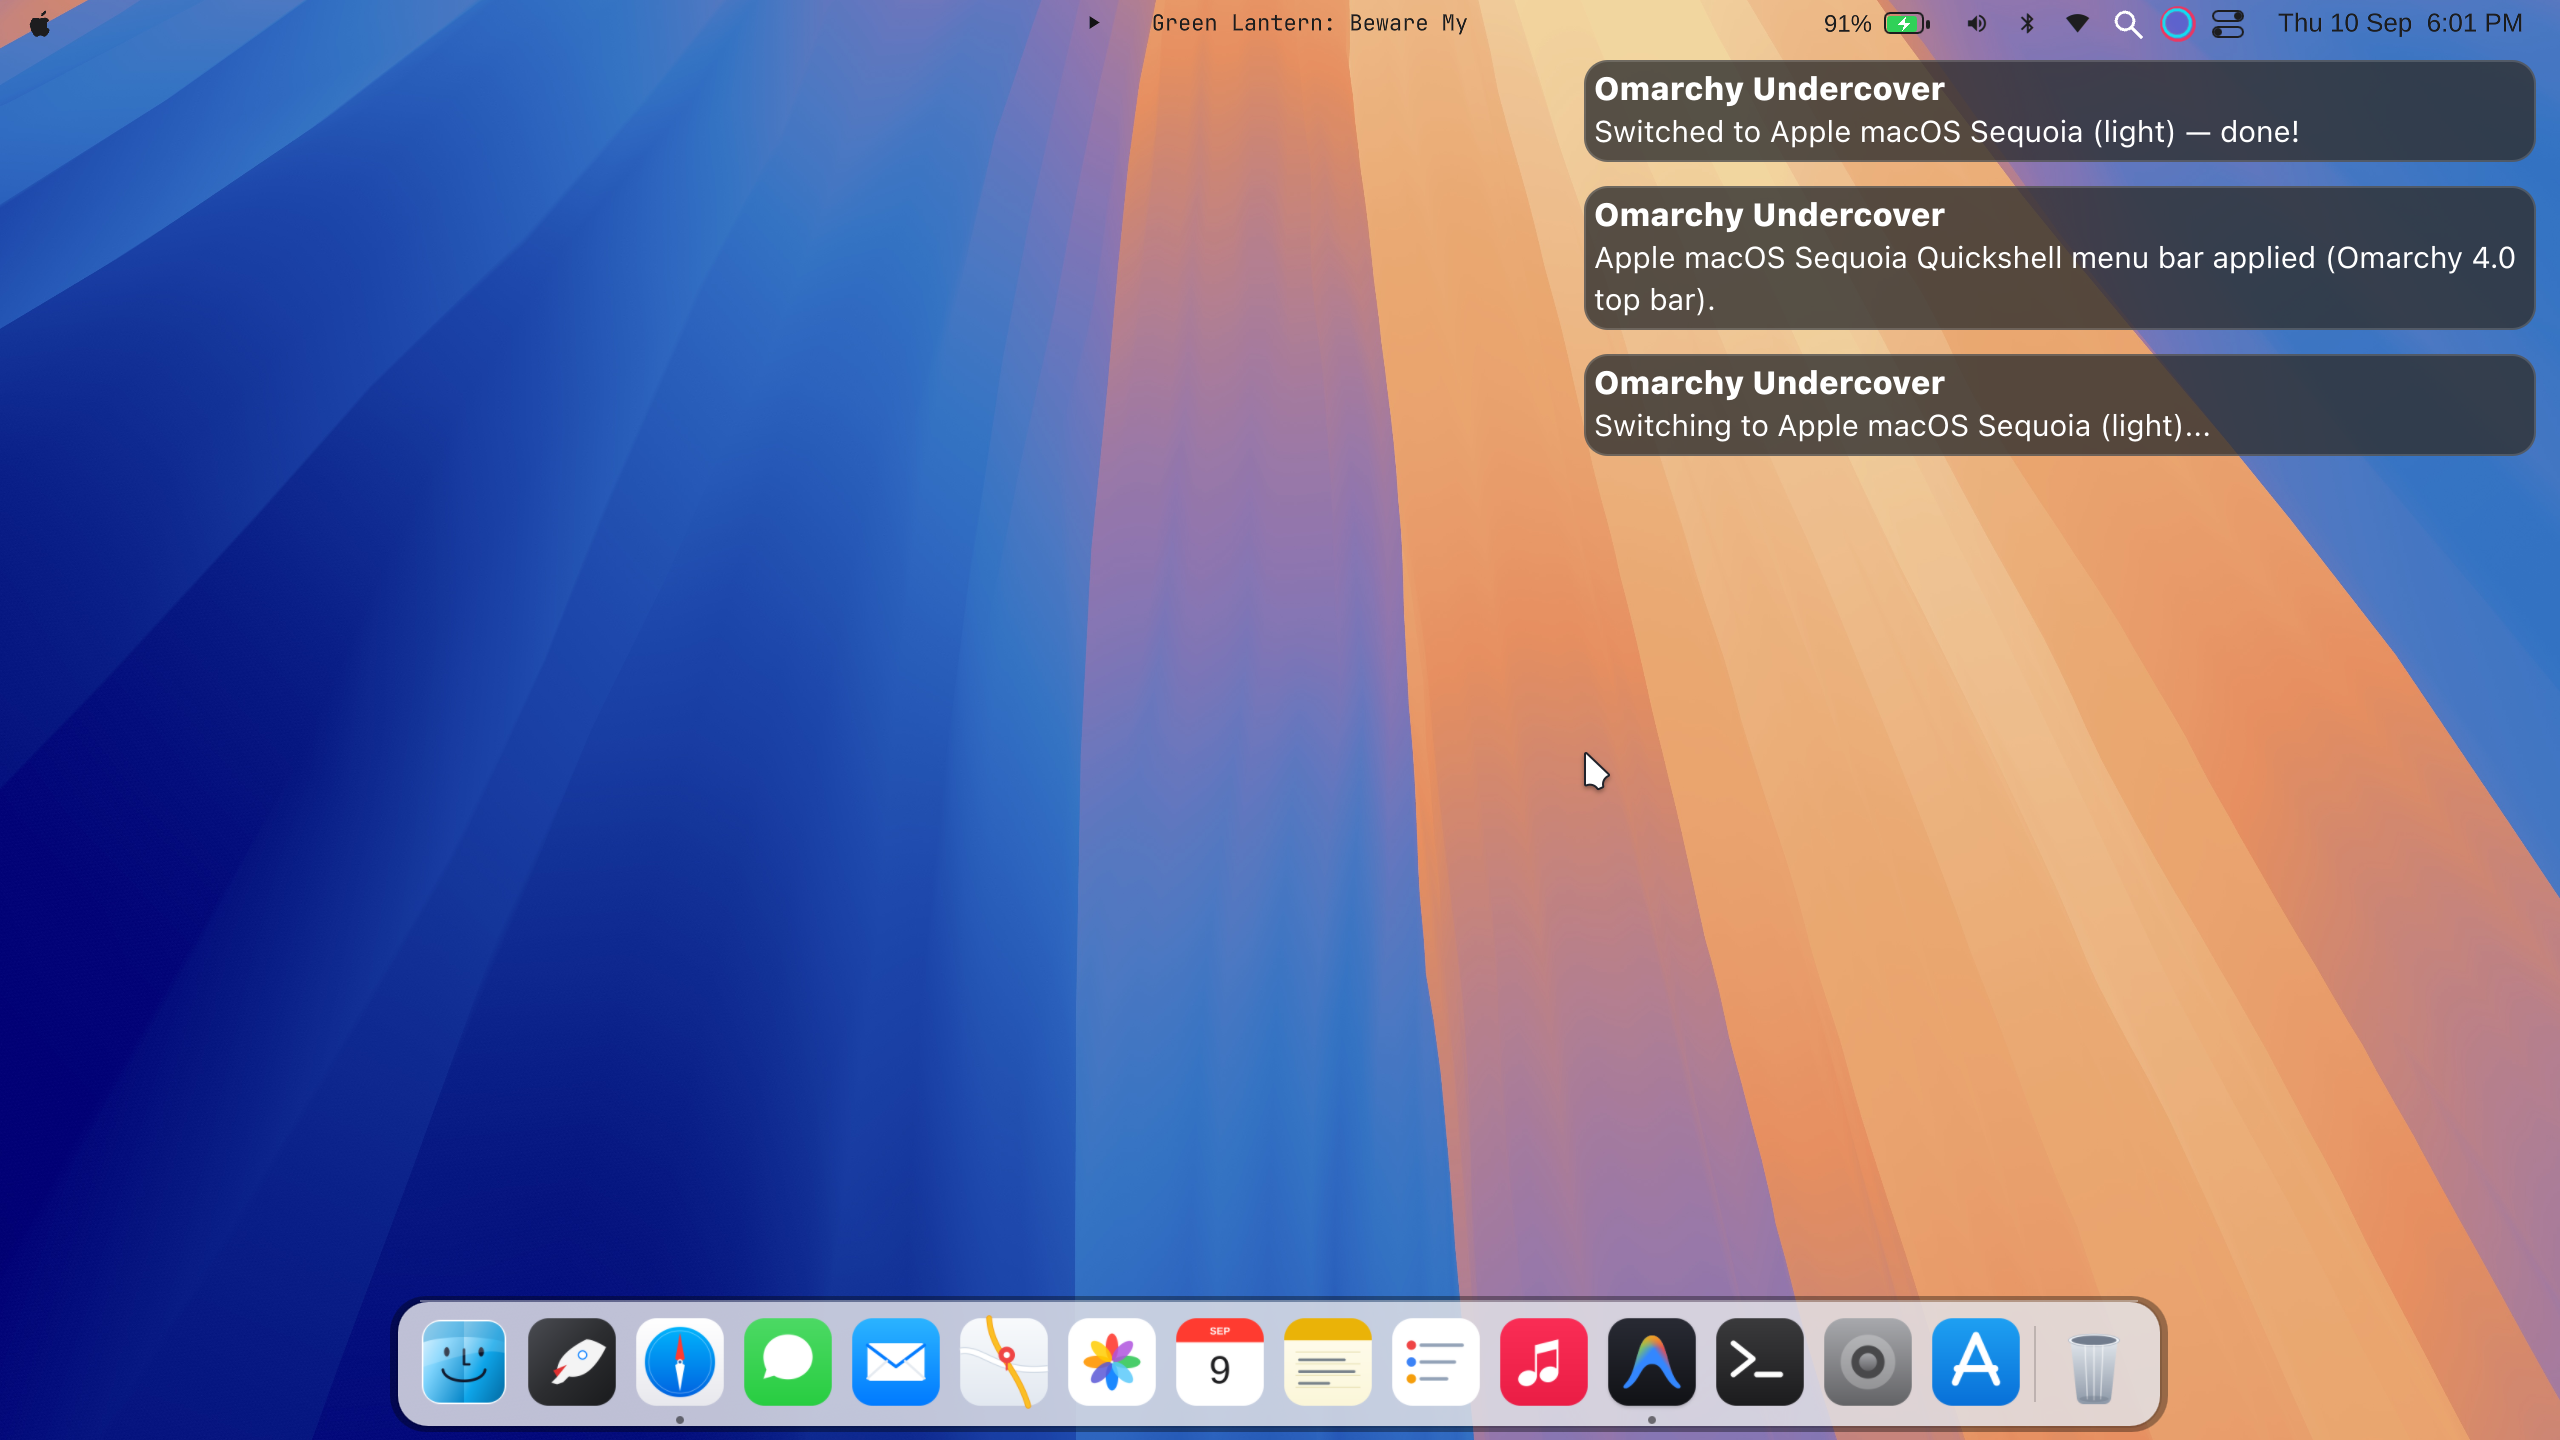
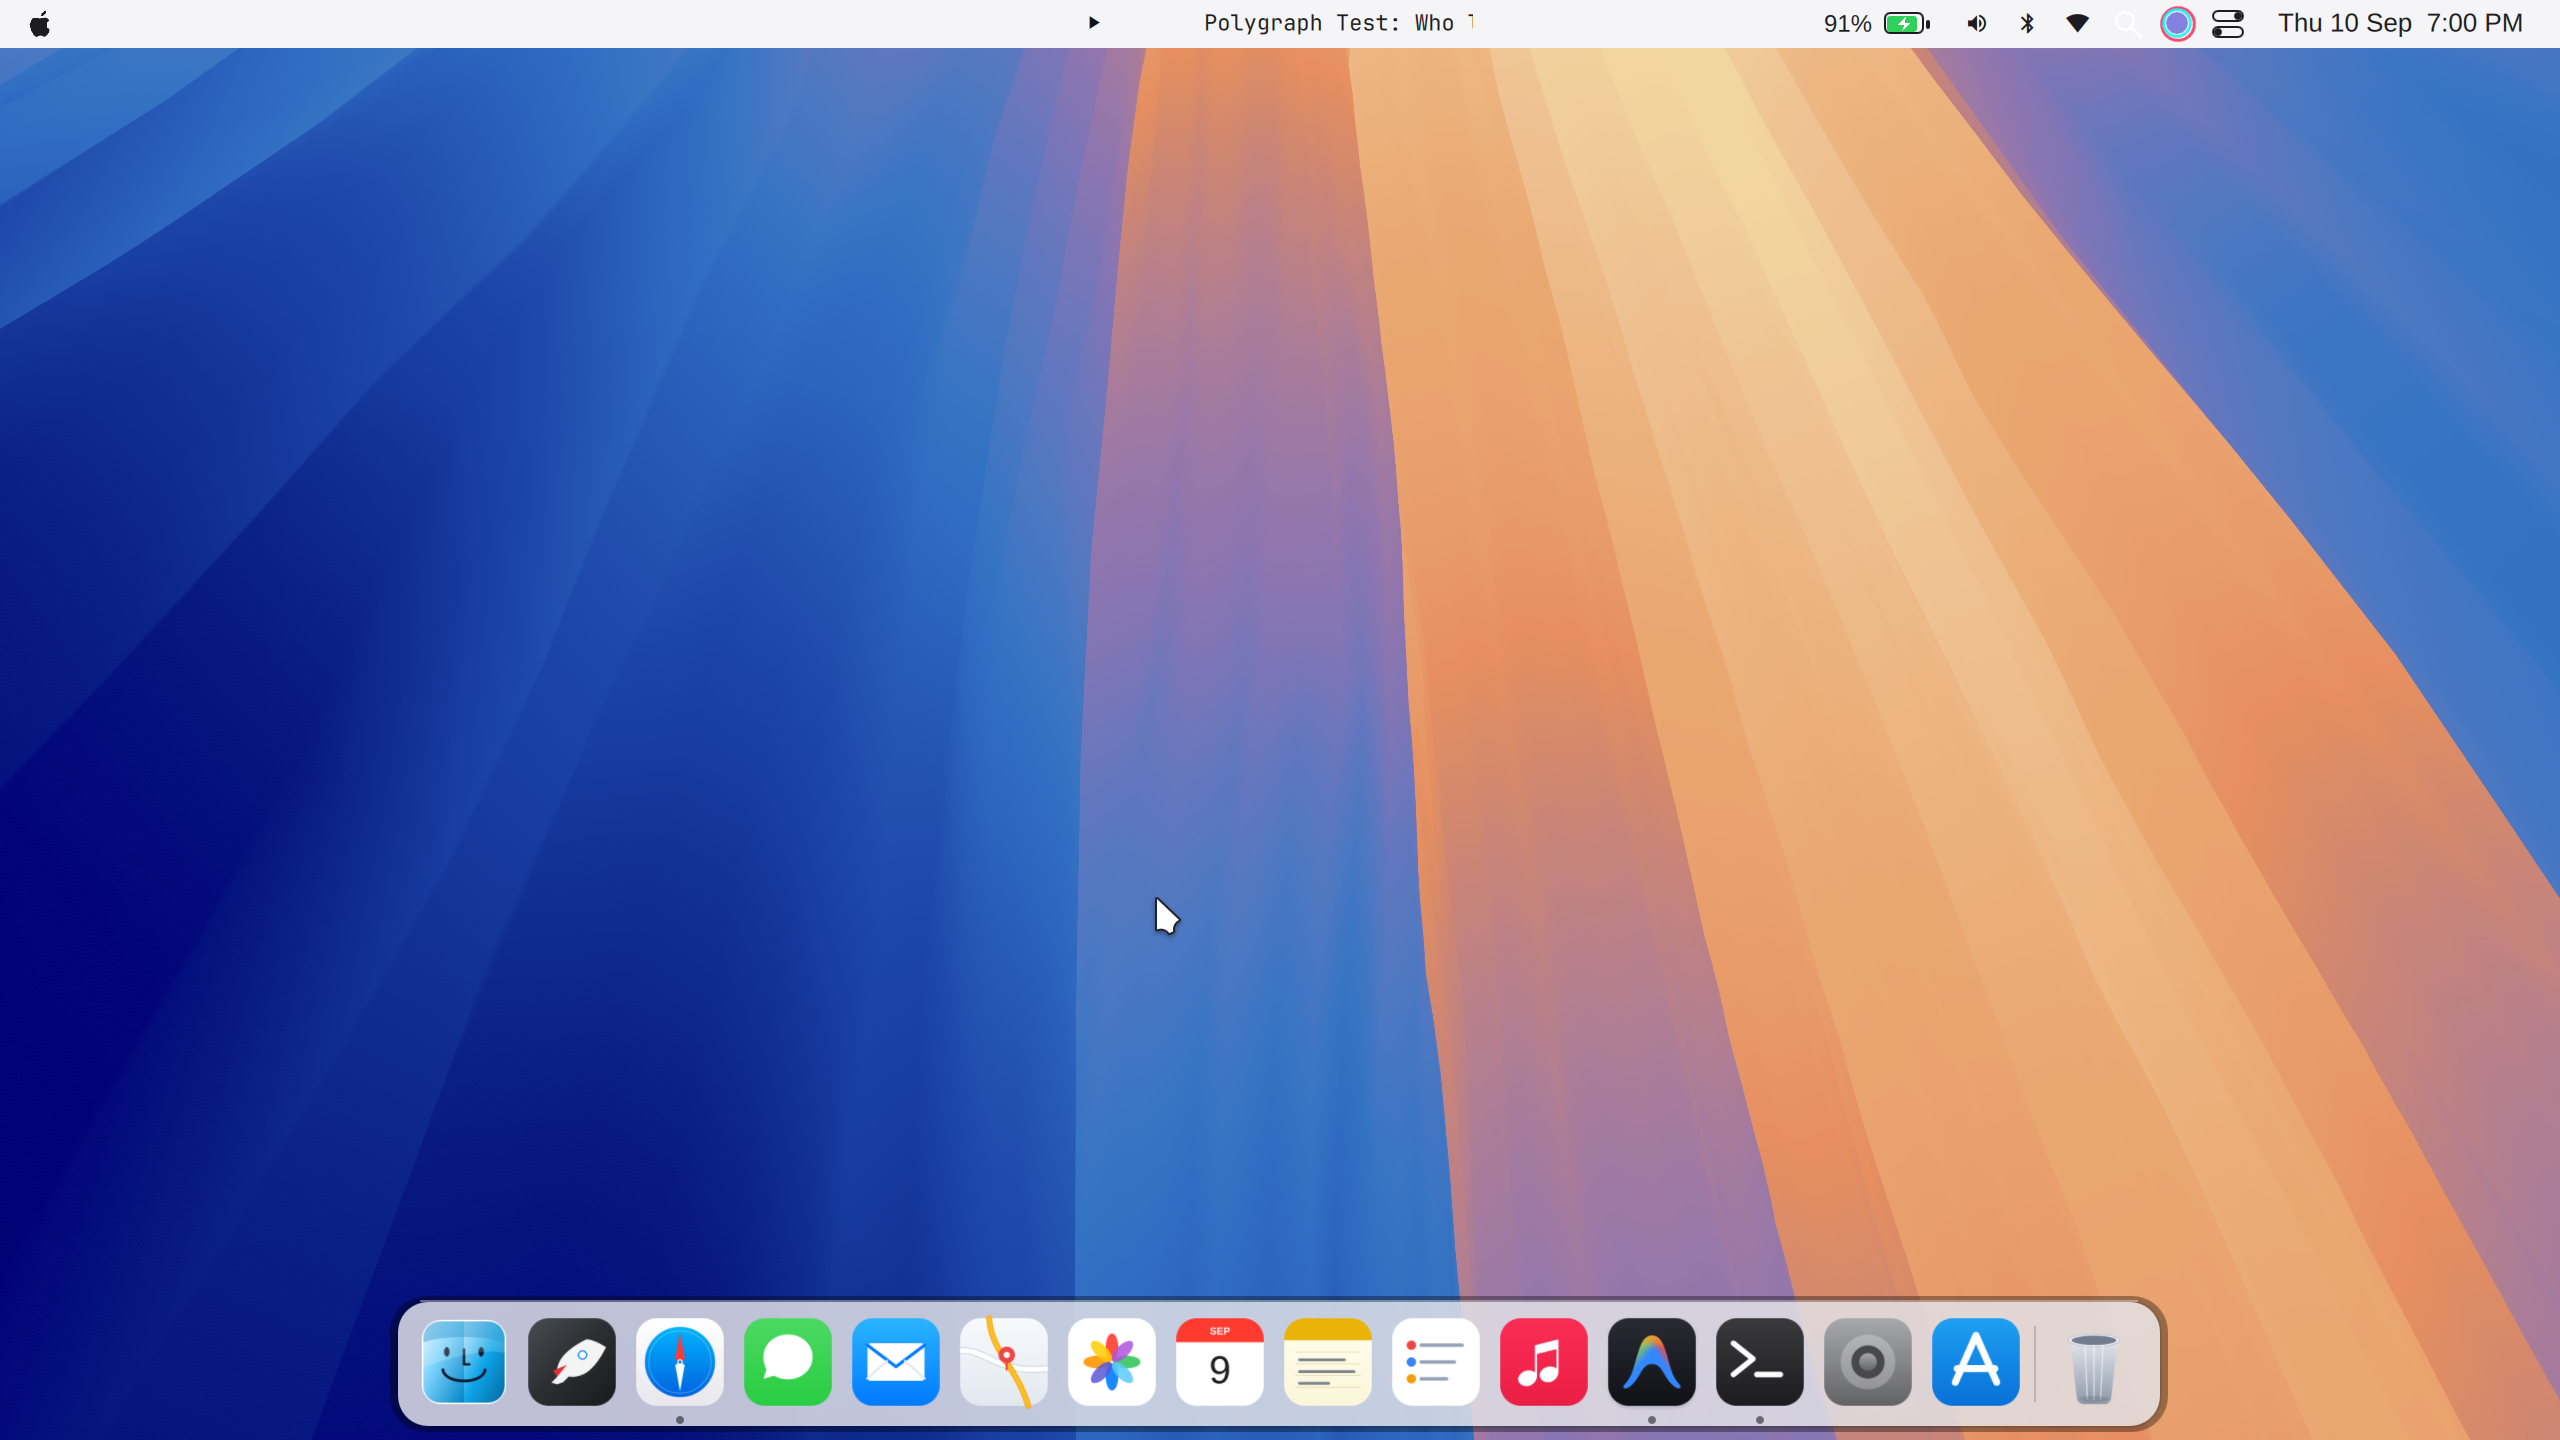
docs: refresh macOS screenshots and fix transparent screenshot filename in README

Changed region(s): [[0.0, 0.0, 1.0, 0.3438], [0.5938, 0.5312, 0.625, 0.5625], [0.4375, 0.625, 0.4688, 0.6562]]

diff --git a/README.md b/README.md
@@ -50,7 +50,7 @@ Experience the disguise in action — pixel-perfect macOS Sequoia and Windows 11
 
 | Windows 11 Fluent (Dark) | Windows 11 Fluent (Light) | Windows 11 Fluent (Transparent Taskbar) |
 | :---: | :---: | :---: |
-| <img src="assets/screenshots/Windows11_Dark.png" alt="Omarchy Undercover Windows 11 Dark desktop" width="330"/> | <img src="assets/screenshots/Windows11_Light.png" alt="Omarchy Undercover Windows 11 Light desktop" width="330"/> | <img src="assets/screenshots/Windows11_Trannsparent.png" alt="Omarchy Undercover Windows 11 Transparent Taskbar" width="330"/> |
+| <img src="assets/screenshots/Windows11_Dark.png" alt="Omarchy Undercover Windows 11 Dark desktop" width="330"/> | <img src="assets/screenshots/Windows11_Light.png" alt="Omarchy Undercover Windows 11 Light desktop" width="330"/> | <img src="assets/screenshots/Windows11_Transparent.png" alt="Omarchy Undercover Windows 11 Transparent Taskbar" width="330"/> |
 
 Toggle between both disguises anytime with <kbd>Super</kbd> + <kbd>Alt</kbd> + <kbd>U</kbd>.
 
